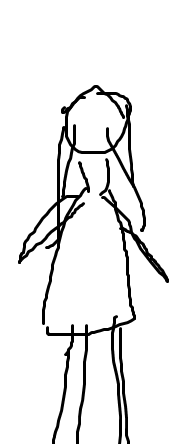
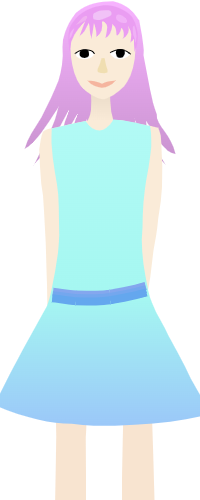
did art for all chars and rooms in town (except destroyed town and night town)

diff --git a/src/gamedata/PointAndClick.tsx b/src/gamedata/PointAndClick.tsx
@@ -11,9 +11,9 @@ import { get_potion } from './items_to_draw';
 import _ from 'lodash';
 
 const person_size = [188,444]
-const explorer_coords = [50, 300]
-const magic_coords = [260, 300]
-const tour_coords = [500, 300]
+const explorer_coords = [50, CANVAS_HEIGHT-480]
+const magic_coords = [260, CANVAS_HEIGHT-480]
+const tour_coords = [500, CANVAS_HEIGHT-480]
 const bed_coords = [497, 280, 797-497, 476-280] // wh
 const fire_orb_jump_coords = [50, CANVAS_HEIGHT-120, 200, 55]; 
 const water_orb_jump_coords = [270, CANVAS_HEIGHT-120, 200, 55]; 
@@ -23,8 +23,8 @@ const back_rect = [CANVAS_WIDTH-80, CANVAS_HEIGHT-60]
 let map_size = [CANVAS_HEIGHT-100,CANVAS_HEIGHT-100] // height for the first one since it should be square
 const rect_sizes = [75, 55]
 
-const potion_size = [50, 50]; 
-const potion_start = [200, 70]
+const potion_size = [50, 75]; 
+const potion_start = [386, 77]
 type modes = "town"|"magic"|"tour"|"explorer"|"destroyed"|"forest map"|"hero"|"night"|"explorer out"|"magic2"|"dead magician"
 
 function PointAndClick(props : {g : game, ret : Function}) {
@@ -58,14 +58,14 @@ function PointAndClick(props : {g : game, ret : Function}) {
             if(pointInsideRectangleWH(x, y, explorer_coords, person_size)){
                 setMode("explorer")
                 if(g.monster_defeated == false || g.fire_orb_found == true){
-                    setMessage("I'm an explorer")
+                    setMessage("I'm an explorer. I explore faraway worlds and find treasure.")
                 } else { 
                     setMessage("Can I borrow the lava resistant suit? I promise to give you what I can find. ")
                 }
             }
             if(pointInsideRectangleWH(x, y, magic_coords, person_size)){
                 setMode("magic")
-                setMessage("I'm a magician")
+                setMessage("I'm a enchantress. I can help you with magic stuff.")
                 if(g.fire_orb_found && !g.temple_unlocked) {
                     setMode("magic2");
                     setMessagen(0);
@@ -170,7 +170,7 @@ function PointAndClick(props : {g : game, ret : Function}) {
                 setMessagen(2);
             }
             else if(messagen == 2){
-                setMessage("He quickly makes the suit and gives it to you")
+                setMessage("She quickly makes the suit and gives it to you")
                 setMessagen(3);
             }
             else if(messagen == 3){
@@ -186,7 +186,7 @@ function PointAndClick(props : {g : game, ret : Function}) {
                 setMessagen(1);
             }
             if(messagen == 1){
-                setMessage("A few days later, he returns with a fire orb")
+                setMessage("A few days later, she returns with a fire orb")
                 setMessagen(2);
             }
             if(messagen == 2){
@@ -279,7 +279,7 @@ function PointAndClick(props : {g : game, ret : Function}) {
                 lst.push(d_image("town/magician.png",explorer_coords));
                 for(let x=0; x < 6; x ++){
                     for(let y=0; y< 4; y++){
-                        let pt : point = [potion_start[0] + x * potion_size[0], potion_size[1] + y * potion_size[1]];
+                        let pt : point = [potion_start[0] + x * potion_size[0], potion_start[1] + y * potion_size[1]];
                         let index = x+6*y; 
                         let [color, shape]= g.potions[index];
                         let cmd = get_potion(shape, color)
@@ -314,8 +314,7 @@ function PointAndClick(props : {g : game, ret : Function}) {
                 lst.push(d_image("town/map_start.png", lincomb(-0.5, [40, 40], 0.5, map_size)));
             break;
             case "dead magician":
-                lst.push(d_image("town/magic shop.png",0,0));
-                lst.push(d_image("town/dead magician.png",100,440));
+                lst.push(d_image("town/dead magician.png",0,0));
                 lst.push(displace_command(get_potion(g.bad_combo[1], g.bad_combo[0]), [400, 400]));
         }
         //back button

diff --git a/src/gamedata/game.tsx b/src/gamedata/game.tsx
@@ -176,9 +176,10 @@ class game implements game_interface{
             if(this.tap == false){
                 return {"type": "enchantment"}; 
             } else {
-                if(this.water_orb_found == false || this.fire_orb_found == false){
+                if(this.passed_traps && (this.water_orb_found == false || this.fire_orb_found == false)){
                     return {"type": "enchantment dead"}; 
-                } else { 
+                } 
+                if(this.passed_traps && this.water_orb_found && this.fire_orb_found) { 
                     this.sword_enchanted = true;
                     return {"type":"enchanted"};                    
                 }
